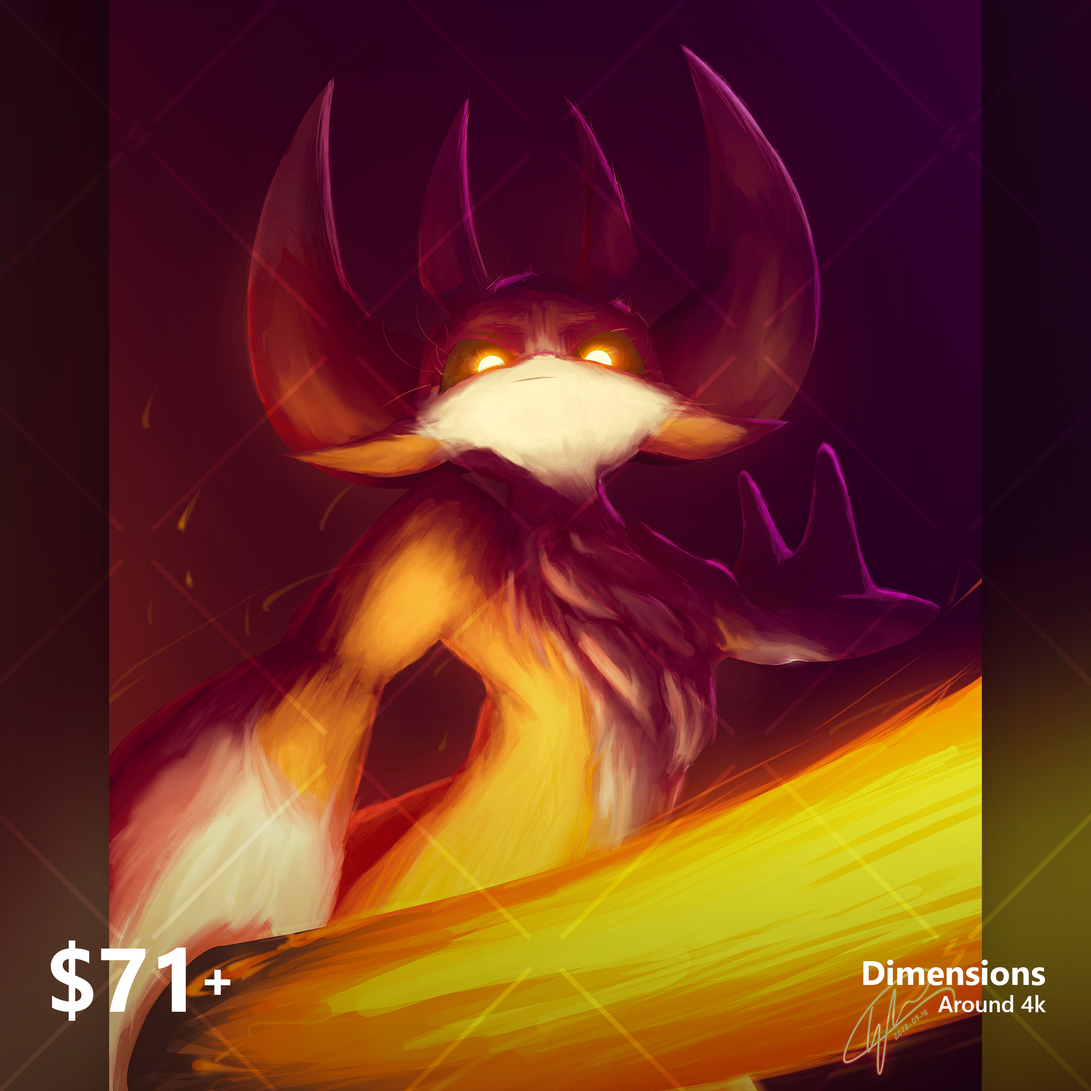
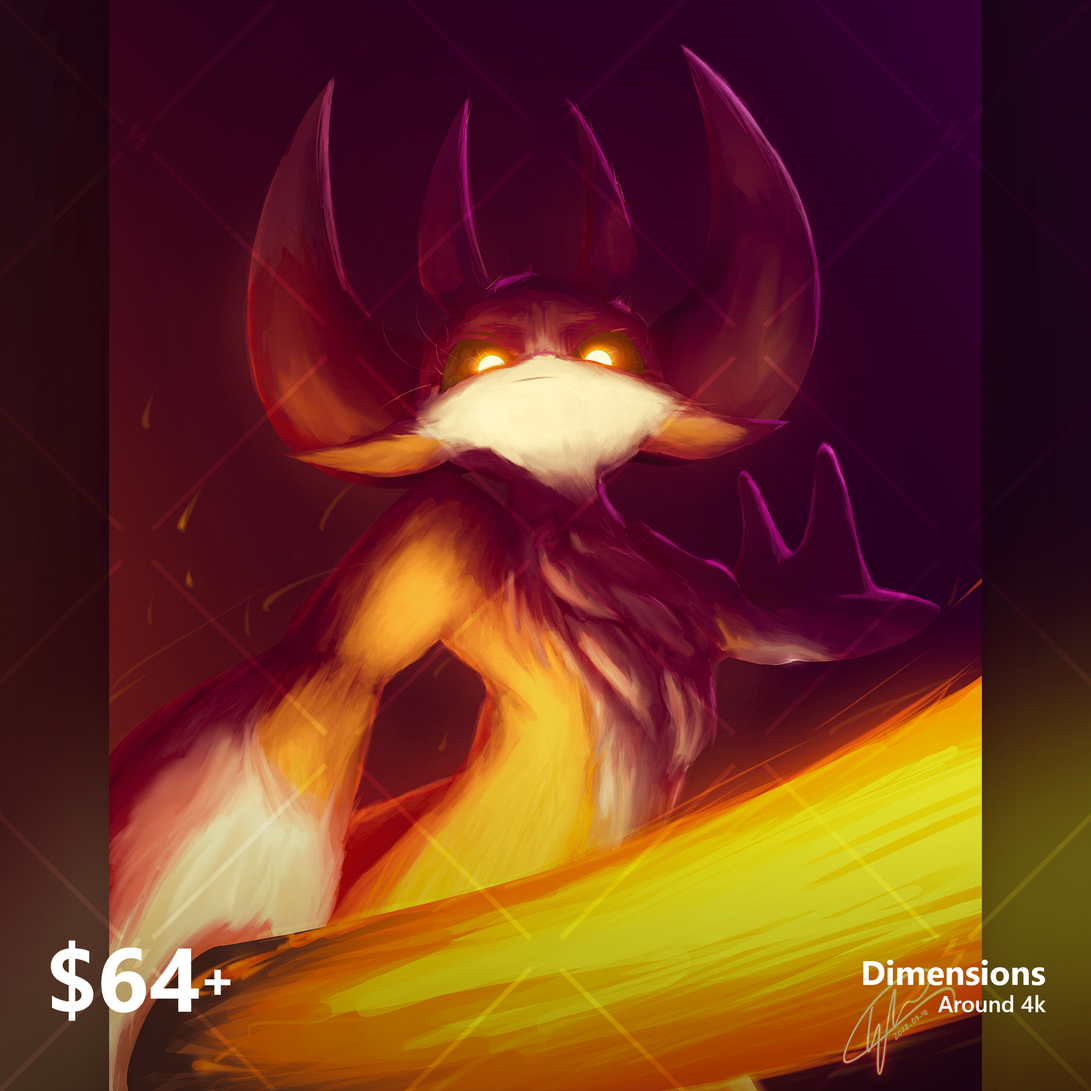
June Update Finalization

diff --git a/service-and-agreement.html b/service-and-agreement.html
@@ -38,7 +38,7 @@ Coded with love <3
             <article>
                 <section id="Commissioning">
                     <span style="font-style:italic; font-size:smaller; opacity: 0.5;">    
-                        last updated: 06/30/2022
+                        last updated: 07/08/2022
                     </span>
                     <h1>Commissioning</h1>
                     <p>
@@ -121,12 +121,12 @@ Coded with love <3
                         </p>
                     </div>
 
-                    <h3>Prices Under $85</h3>
+                    <h3>Prices Under $75</h3>
                     <p>Slam requires full payment of your selected offer of the final pricing we had discussed (<a href="#Pricing">See Pricing</a>). Once the payment is received, Slam will proceed and start doing your commission request at his available
                         schedule slots.
                     </p>
 
-                    <h3>Prices Above $85</h3>
+                    <h3>Prices Above $75</h3>
                     <p>Larger and costly commissions are a bit daunting to get fully paid in the first place. Slam can offer a 40% downpayment of the final discussed price of the available offer of your choice. Once the initial payment is received, Slam
                         will proceed and start doing your commission request at his available schedule slots. And finally, Slam will inform you once the piece has been finalized and will wait for the remaining payment before releasing the output to you.</p>
 

diff --git a/commissions.html b/commissions.html
@@ -103,7 +103,7 @@ Coded with love <3
                     </div>
 
                     <div id="Bust" class="tabContent">
-                        <h1>Bust</h1>
+                        <h1>Bust <span style="font-weight: normal; font-size:small;">(to be removed)</span></h1>
                         <div id="color2" class="sectionContent2">
                             <!--image carousel-->
                             <div class="carousel" data-carousel>
@@ -142,7 +142,7 @@ Coded with love <3
                             <img loading="lazy" id="img" src="/assets/images/Placeholder.png" style="filter: invert(); opacity: 0.3;">
                         </div>
                         <h3 class="artworkBtns">
-                            <button class="sectionLinks3" onclick="switchImage3(event, 'color3')" id="defaultOpen4">$71 Full Color</button>
+                            <button class="sectionLinks3" onclick="switchImage3(event, 'color3')" id="defaultOpen4">$64 Full Color</button>
                             <button class="sectionLinks3" onclick="switchImage3(event, 'sketch3')">$48 Sketch</button>
                         </h3>
                     </div>
